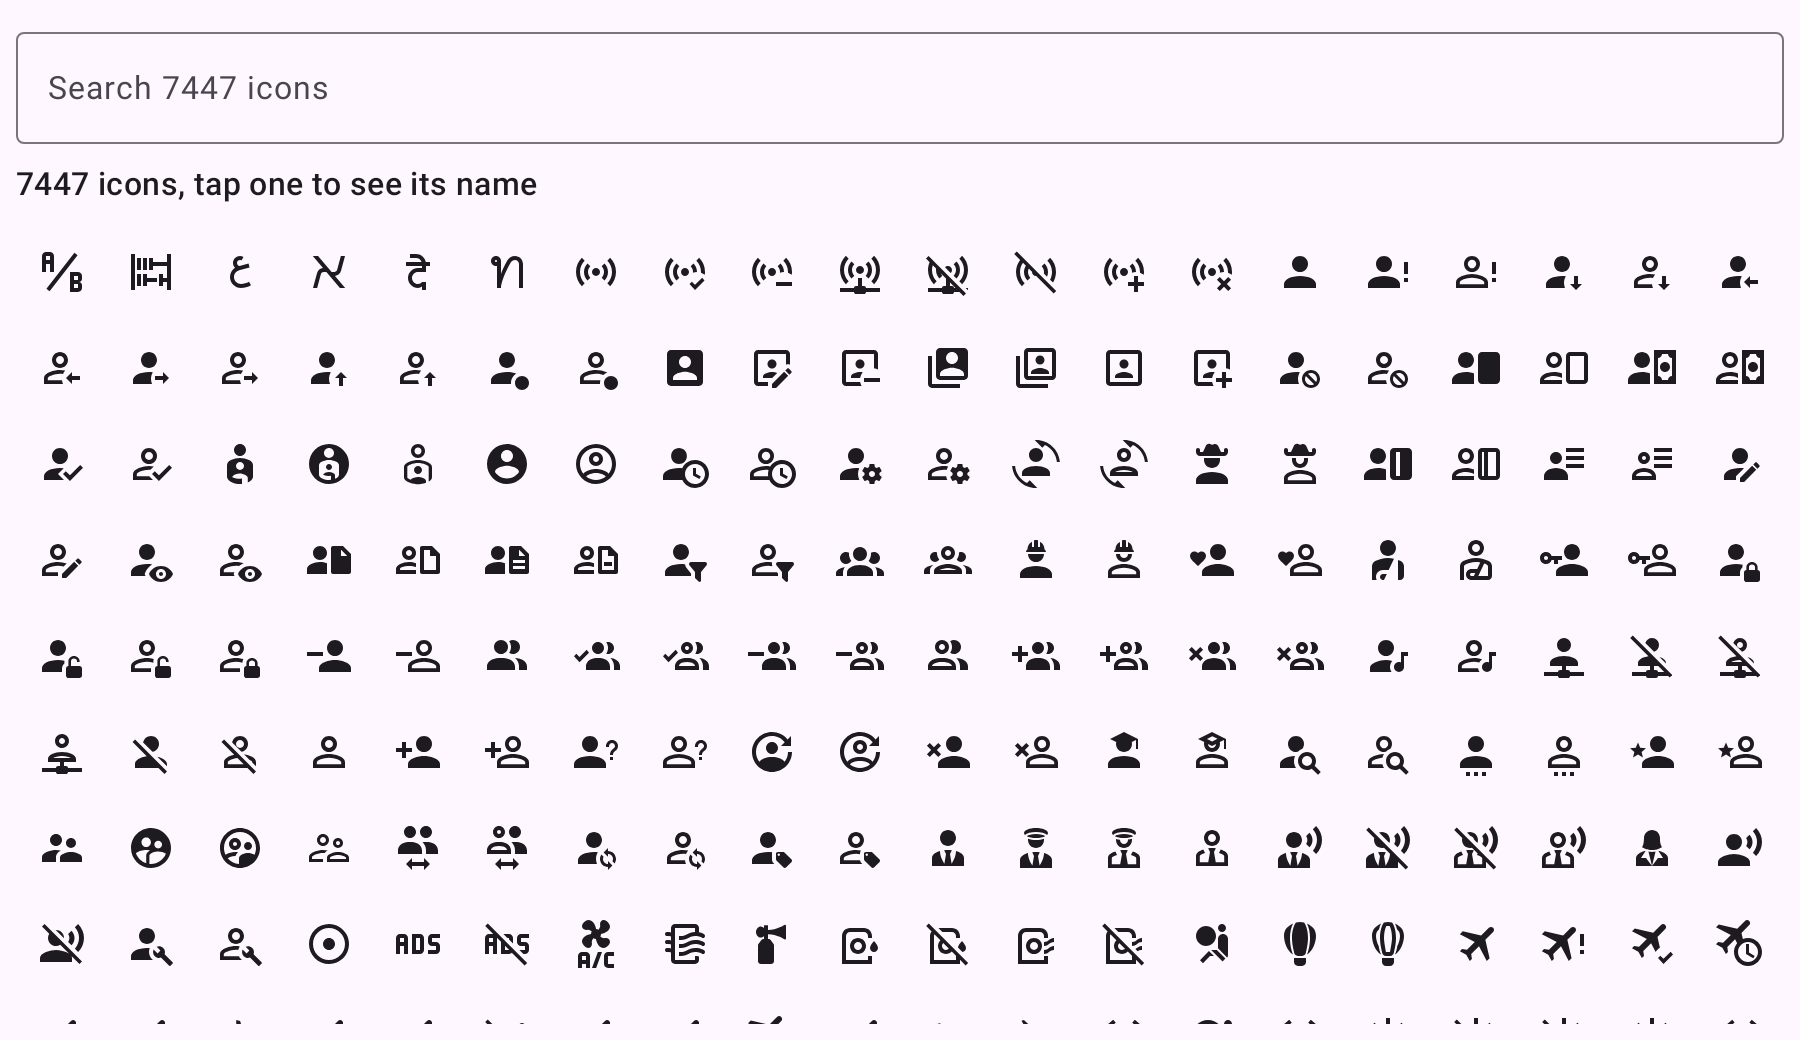
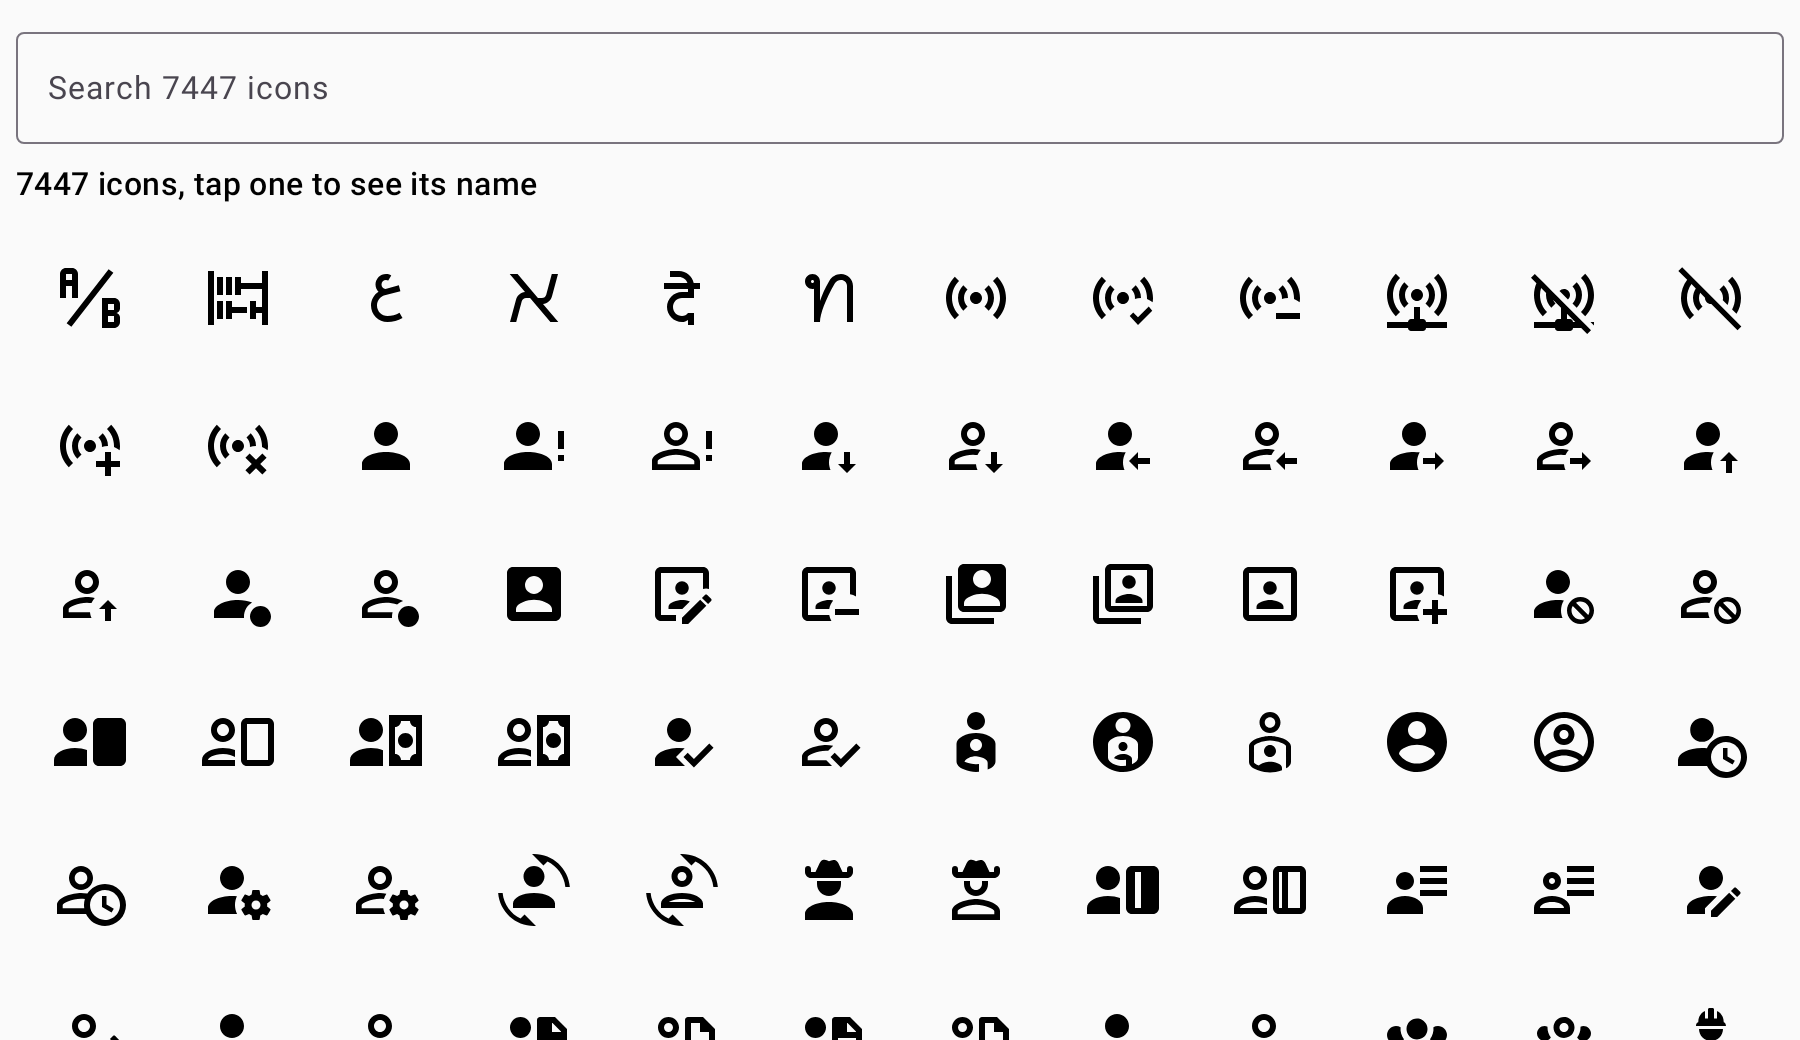
Improve sample rendering and repository visiblity (#13)

diff --git a/sample/src/commonMain/kotlin/io/github/timoptr/mdiicons/sample/App.kt b/sample/src/commonMain/kotlin/io/github/timoptr/mdiicons/sample/App.kt
@@ -1,49 +1,155 @@
 package io.github.timoptr.mdiicons.sample
 
+import androidx.annotation.VisibleForTesting
+import androidx.compose.foundation.clickable
+import androidx.compose.foundation.isSystemInDarkTheme
 import androidx.compose.foundation.layout.Arrangement
+import androidx.compose.foundation.layout.Box
 import androidx.compose.foundation.layout.Column
 import androidx.compose.foundation.layout.Row
+import androidx.compose.foundation.layout.Spacer
+import androidx.compose.foundation.layout.WindowInsets
+import androidx.compose.foundation.layout.WindowInsetsSides
+import androidx.compose.foundation.layout.asPaddingValues
+import androidx.compose.foundation.layout.aspectRatio
+import androidx.compose.foundation.layout.consumeWindowInsets
 import androidx.compose.foundation.layout.fillMaxSize
 import androidx.compose.foundation.layout.fillMaxWidth
+import androidx.compose.foundation.layout.only
 import androidx.compose.foundation.layout.padding
-import androidx.compose.foundation.layout.safeContentPadding
+import androidx.compose.foundation.layout.safeDrawing
 import androidx.compose.foundation.layout.size
+import androidx.compose.foundation.layout.width
+import androidx.compose.foundation.layout.widthIn
+import androidx.compose.foundation.layout.wrapContentWidth
 import androidx.compose.foundation.lazy.grid.GridCells
 import androidx.compose.foundation.lazy.grid.LazyVerticalGrid
 import androidx.compose.foundation.lazy.grid.items
+import androidx.compose.material3.ButtonDefaults
+import androidx.compose.material3.ExperimentalMaterial3Api
 import androidx.compose.material3.Icon
 import androidx.compose.material3.IconButton
 import androidx.compose.material3.MaterialTheme
+import androidx.compose.material3.OutlinedButton
 import androidx.compose.material3.OutlinedTextField
-import androidx.compose.material3.Surface
+import androidx.compose.material3.Scaffold
 import androidx.compose.material3.Text
+import androidx.compose.material3.TopAppBar
+import androidx.compose.material3.darkColorScheme
+import androidx.compose.material3.lightColorScheme
 import androidx.compose.runtime.Composable
 import androidx.compose.runtime.getValue
 import androidx.compose.runtime.mutableStateOf
 import androidx.compose.runtime.remember
+import androidx.compose.runtime.saveable.rememberSaveable
 import androidx.compose.runtime.setValue
 import androidx.compose.ui.Alignment
 import androidx.compose.ui.Modifier
-import androidx.compose.ui.tooling.preview.Preview
+import androidx.compose.ui.platform.LocalUriHandler
+import androidx.compose.ui.tooling.preview.PreviewLightDark
 import androidx.compose.ui.unit.dp
 import io.github.timoptr.mdiicons.Mdi
 import io.github.timoptr.mdiicons.MdiIcon
+import io.github.timoptr.mdiicons.generated.Github
+import io.github.timoptr.mdiicons.generated.WeatherNight
+import io.github.timoptr.mdiicons.generated.WeatherSunny
 import io.github.timoptr.mdiicons.rememberImageVector
+import io.github.timoptr.mdiicons.sample.resources.Res
+import io.github.timoptr.mdiicons.sample.resources.app_name
+import io.github.timoptr.mdiicons.sample.resources.app_subtitle
+import io.github.timoptr.mdiicons.sample.resources.search_label
+import io.github.timoptr.mdiicons.sample.resources.switch_to_dark_theme
+import io.github.timoptr.mdiicons.sample.resources.switch_to_light_theme
+import io.github.timoptr.mdiicons.sample.resources.view_on_github
+import io.github.timoptr.mdiicons.sample.resources.visible_icons
+import org.jetbrains.compose.resources.pluralStringResource
+import org.jetbrains.compose.resources.stringResource
+
+private const val REPOSITORY_URL = "https://github.com/TimoPtr/mdi-icons"
 
 @Composable
-@Preview
 fun App() {
-    MaterialTheme {
-        Surface(modifier = Modifier.fillMaxSize()) {
-            IconCatalog()
+    // Follows the system theme until the user picks one with the top bar button.
+    var darkThemeOverride by rememberSaveable { mutableStateOf<Boolean?>(null) }
+    val darkTheme = darkThemeOverride ?: isSystemInDarkTheme()
+    MaterialTheme(colorScheme = if (darkTheme) darkColorScheme() else lightColorScheme()) {
+        Scaffold(
+            topBar = {
+                CatalogTopBar(
+                    darkTheme = darkTheme,
+                    onToggleTheme = { darkThemeOverride = !darkTheme },
+                )
+            },
+            contentWindowInsets = WindowInsets.safeDrawing.only(WindowInsetsSides.Horizontal),
+        ) { contentPadding ->
+            IconCatalog(
+                modifier =
+                Modifier
+                    .fillMaxSize()
+                    .padding(contentPadding)
+                    .consumeWindowInsets(contentPadding),
+            )
         }
+    }
+}
+
+/** The sample title and what the library is, with the link to the repository. */
+@OptIn(ExperimentalMaterial3Api::class)
+@Composable
+private fun CatalogTopBar(darkTheme: Boolean, onToggleTheme: () -> Unit, modifier: Modifier = Modifier) {
+    TopAppBar(
+        title = {
+            Column {
+                Text(text = stringResource(Res.string.app_name))
+                Text(
+                    text = stringResource(Res.string.app_subtitle),
+                    style = MaterialTheme.typography.bodyMedium,
+                    color = MaterialTheme.colorScheme.onSurfaceVariant,
+                )
+            }
+        },
+        actions = {
+            ThemeToggleButton(darkTheme = darkTheme, onToggleTheme = onToggleTheme)
+            GithubButton(modifier = Modifier.padding(end = 8.dp))
+        },
+        modifier = modifier,
+    )
+}
+
+/** Switches between the light and dark theme, showing the theme it switches to. */
+@Composable
+private fun ThemeToggleButton(darkTheme: Boolean, onToggleTheme: () -> Unit, modifier: Modifier = Modifier) {
+    IconButton(onClick = onToggleTheme, modifier = modifier) {
+        Icon(
+            imageVector = (if (darkTheme) Mdi.WeatherSunny else Mdi.WeatherNight).rememberImageVector(),
+            contentDescription =
+            stringResource(
+                if (darkTheme) Res.string.switch_to_light_theme else Res.string.switch_to_dark_theme,
+            ),
+        )
+    }
+}
+
+/** Opens the repository of the library. */
+@Composable
+private fun GithubButton(modifier: Modifier = Modifier) {
+    val uriHandler = LocalUriHandler.current
+    OutlinedButton(onClick = { uriHandler.openUri(REPOSITORY_URL) }, modifier = modifier) {
+        Icon(
+            imageVector = Mdi.Github.rememberImageVector(),
+            contentDescription = null,
+            modifier = Modifier.size(ButtonDefaults.IconSize),
+        )
+        Spacer(modifier = Modifier.width(ButtonDefaults.IconSpacing))
+        Text(stringResource(Res.string.view_on_github))
     }
 }
 
 /** Searchable gallery of the complete MDI catalog, the showcase of every sample app. */
 @Composable
-private fun IconCatalog() {
-    val icons = remember { Mdi.icons }
+@VisibleForTesting
+internal fun IconCatalog(modifier: Modifier = Modifier) {
+    val icons = Mdi.icons
     var query by remember { mutableStateOf("") }
     var selected by remember { mutableStateOf<MdiIcon?>(null) }
     val filtered = remember(query) {
@@ -56,46 +162,117 @@ private fun IconCatalog() {
         if (terms.isEmpty()) icons else icons.filter { icon -> terms.all(icon.name::contains) }
     }
 
-    Column(modifier = Modifier.fillMaxSize().safeContentPadding().padding(8.dp)) {
-        OutlinedTextField(
-            value = query,
-            onValueChange = { query = it },
-            label = { Text("Search ${icons.size} icons") },
-            singleLine = true,
+    IconCatalogContent(
+        iconCount = icons.size,
+        query = query,
+        onQueryChange = { query = it },
+        selectedIcon = selected,
+        onIconSelected = { selected = it },
+        visibleIcons = filtered,
+        modifier = modifier,
+    )
+}
+
+@Composable
+private fun IconCatalogContent(
+    iconCount: Int,
+    query: String,
+    onQueryChange: (String) -> Unit,
+    selectedIcon: MdiIcon?,
+    onIconSelected: (MdiIcon) -> Unit,
+    visibleIcons: List<MdiIcon>,
+    modifier: Modifier = Modifier,
+) {
+    // A narrower column shows fewer icons at once, which keeps scrolling smooth on wide screens.
+    // No bottom padding: the grid scrolls behind the navigation bar, edge to edge.
+    Column(
+        modifier =
+        modifier
+            .wrapContentWidth()
+            .widthIn(max = 960.dp)
+            .padding(start = 8.dp, top = 8.dp, end = 8.dp),
+    ) {
+        SearchBar(
+            iconCount = iconCount,
+            query = query,
+            onQueryChange = onQueryChange,
             modifier = Modifier.fillMaxWidth(),
         )
-        Row(
-            verticalAlignment = Alignment.CenterVertically,
-            horizontalArrangement = Arrangement.spacedBy(8.dp),
+        SelectionStatus(
+            selectedIcon = selectedIcon,
+            visibleIconCount = visibleIcons.size,
             modifier = Modifier.fillMaxWidth().padding(vertical = 8.dp),
-        ) {
-            val icon = selected
-            if (icon != null) {
+        )
+        IconGrid(
+            icons = visibleIcons,
+            onIconSelected = onIconSelected,
+            modifier = Modifier.fillMaxSize(),
+        )
+    }
+}
+
+@Composable
+private fun SearchBar(iconCount: Int, query: String, onQueryChange: (String) -> Unit, modifier: Modifier = Modifier) {
+    OutlinedTextField(
+        value = query,
+        onValueChange = onQueryChange,
+        label = { Text(stringResource(Res.string.search_label, iconCount)) },
+        singleLine = true,
+        modifier = modifier,
+    )
+}
+
+/** Shows the selected icon with its name, or how many icons match the search. */
+@Composable
+private fun SelectionStatus(selectedIcon: MdiIcon?, visibleIconCount: Int, modifier: Modifier = Modifier) {
+    Row(
+        verticalAlignment = Alignment.CenterVertically,
+        horizontalArrangement = Arrangement.spacedBy(8.dp),
+        modifier = modifier,
+    ) {
+        if (selectedIcon != null) {
+            Icon(
+                imageVector = selectedIcon.rememberImageVector(),
+                contentDescription = null,
+                modifier = Modifier.size(32.dp),
+            )
+            Text(text = selectedIcon.name, style = MaterialTheme.typography.titleMedium)
+        } else {
+            Text(
+                text = pluralStringResource(Res.plurals.visible_icons, visibleIconCount, visibleIconCount),
+                style = MaterialTheme.typography.titleMedium,
+            )
+        }
+    }
+}
+
+@Composable
+private fun IconGrid(icons: List<MdiIcon>, onIconSelected: (MdiIcon) -> Unit, modifier: Modifier = Modifier) {
+    LazyVerticalGrid(
+        columns = GridCells.Adaptive(minSize = 72.dp),
+        // Icons scroll behind the navigation bar, while the last row still ends above it.
+        contentPadding = WindowInsets.safeDrawing.only(WindowInsetsSides.Bottom).asPaddingValues(),
+        modifier = modifier,
+    ) {
+        items(icons, key = MdiIcon::name) { icon ->
+            Box(
+                contentAlignment = Alignment.Center,
+                modifier = Modifier.aspectRatio(1f).clickable { onIconSelected(icon) },
+            ) {
                 Icon(
                     imageVector = icon.rememberImageVector(),
-                    contentDescription = null,
-                    modifier = Modifier.size(32.dp),
-                )
-                Text(text = icon.name, style = MaterialTheme.typography.titleMedium)
-            } else {
-                Text(
-                    text = "${filtered.size} icons, tap one to see its name",
-                    style = MaterialTheme.typography.titleMedium,
+                    contentDescription = icon.name,
+                    modifier = Modifier.size(36.dp),
                 )
             }
         }
-        LazyVerticalGrid(
-            columns = GridCells.Adaptive(minSize = 44.dp),
-            modifier = Modifier.fillMaxSize(),
-        ) {
-            items(filtered, key = MdiIcon::name) { icon ->
-                IconButton(onClick = { selected = icon }) {
-                    Icon(
-                        imageVector = icon.rememberImageVector(),
-                        contentDescription = icon.name,
-                    )
-                }
-            }
-        }
+    }
+}
+
+@PreviewLightDark
+@Composable
+private fun IconCatalogContentPreview() {
+    MaterialTheme {
+        App()
     }
 }

diff --git a/sample/src/androidHostTest/kotlin/io/github/timoptr/mdiicons/sample/ReadmeScreenshotTest.kt b/sample/src/androidHostTest/kotlin/io/github/timoptr/mdiicons/sample/ReadmeScreenshotTest.kt
@@ -32,7 +32,7 @@ class ReadmeScreenshotTest {
     @Config(qualifiers = "w900dp-h520dp-xhdpi")
     fun catalog() {
         composeRule.apply {
-            setContent { App() }
+            setContent { IconCatalog() }
             waitForIdle()
             onRoot().captureRoboImage("catalog.png")
         }
@@ -46,7 +46,7 @@ class ReadmeScreenshotTest {
             // The Android ripple is a platform RippleDrawable animated outside the Compose test
             // clock, so waitForIdle() cannot wait for it. Disable it to keep the capture stable.
             setContent {
-                CompositionLocalProvider(LocalRippleConfiguration provides null) { App() }
+                CompositionLocalProvider(LocalRippleConfiguration provides null) { IconCatalog() }
             }
             onNode(hasSetTextAction()).performTextInput("home")
             onNodeWithContentDescription("home-assistant").performClick()
